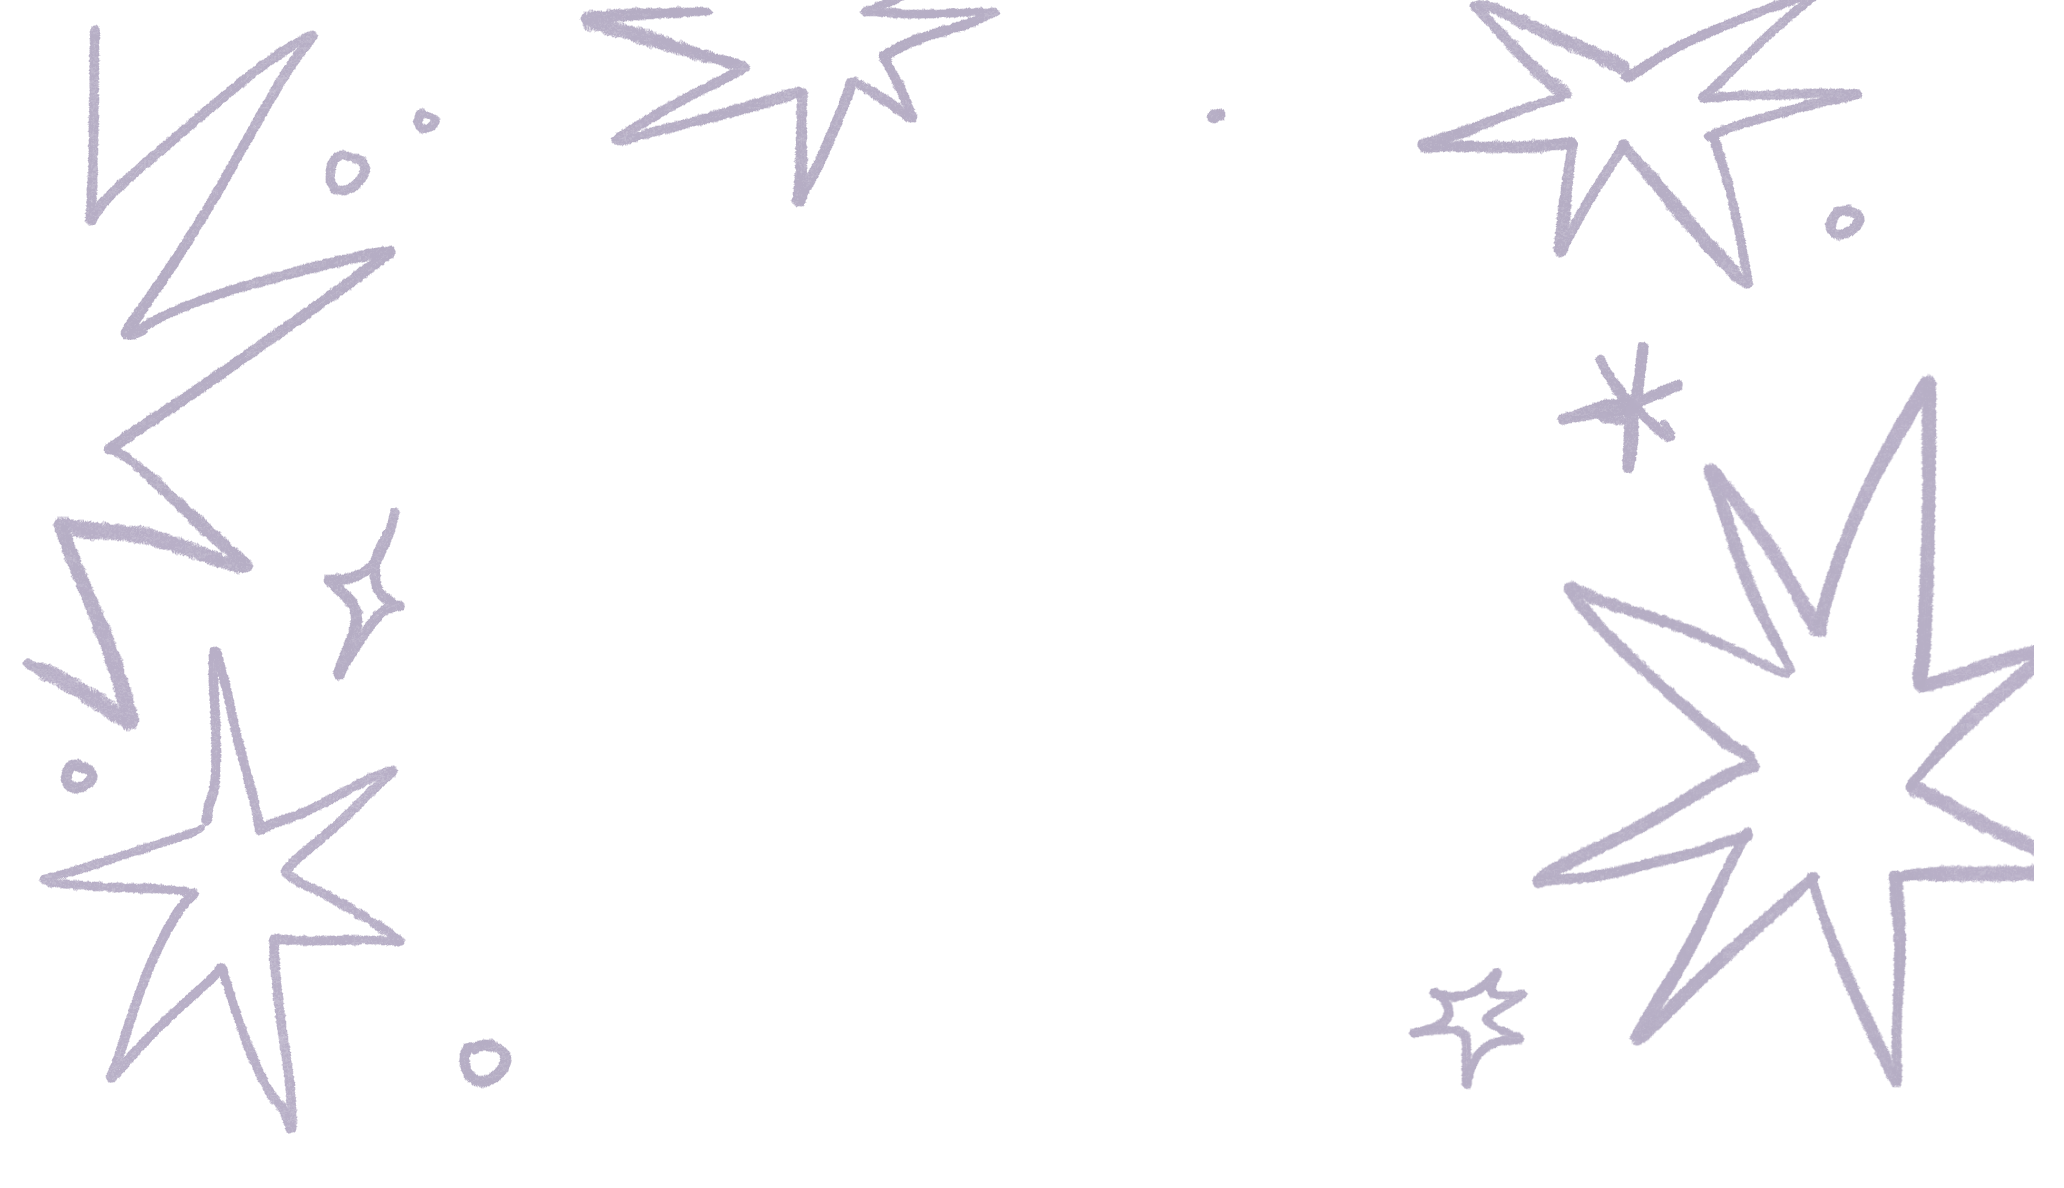
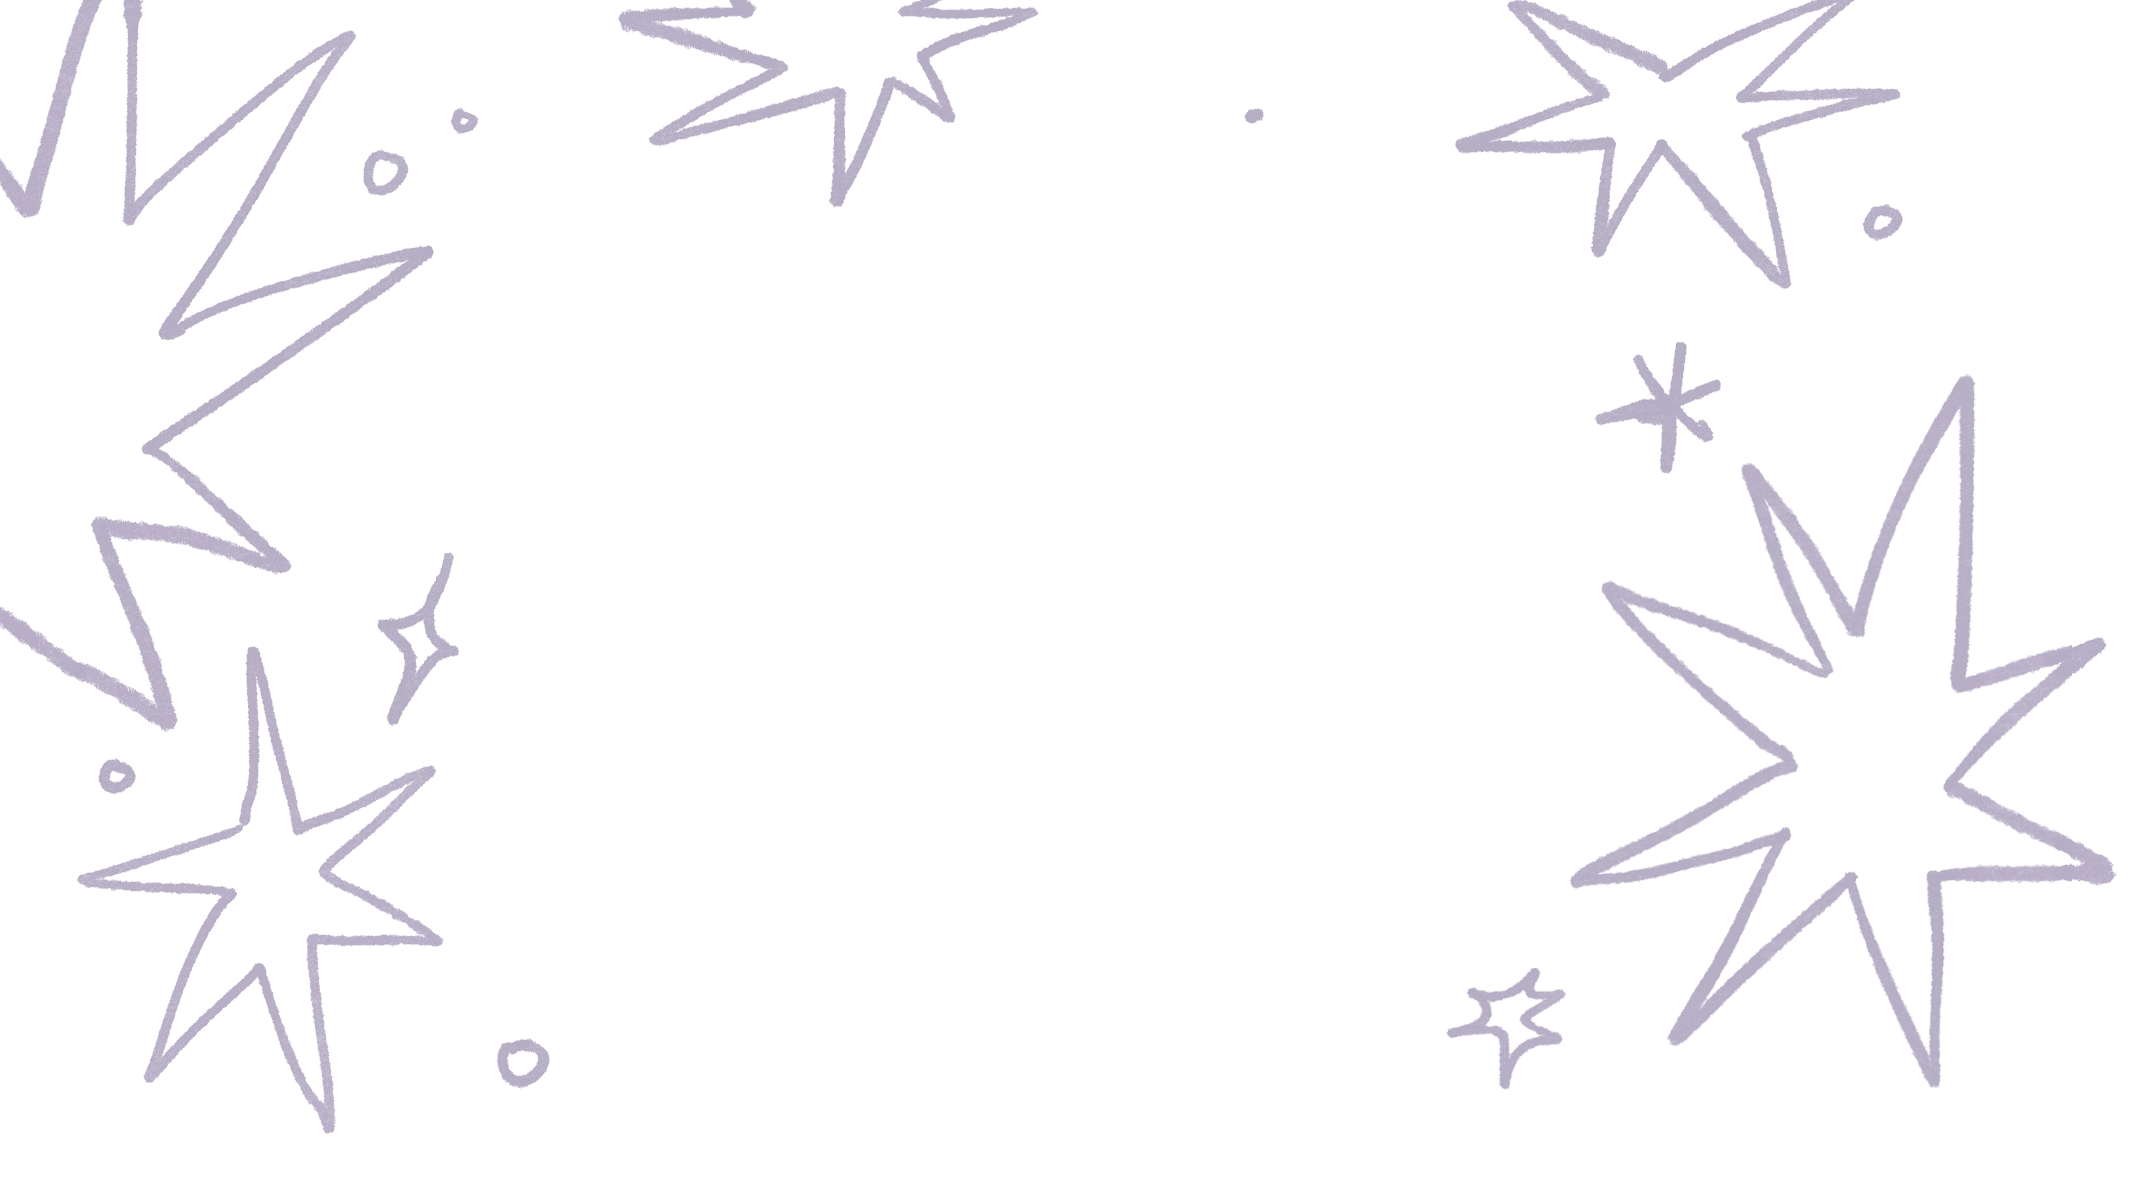
背景fix

diff --git a/src/styles/pages/home.css b/src/styles/pages/home.css
@@ -28,9 +28,7 @@ body.home-page [data-home-reveal-item] {
 
 body.home-page [data-home-hero-item] {
   translate:
-    var(--depth-x, 0px)
-    calc(var(--reveal-y) + var(--depth-y, 0px))
-    var(--depth-z, 0px);
+    var(--depth-x, 0px) calc(var(--reveal-y) + var(--depth-y, 0px)) var(--depth-z, 0px);
 }
 
 body.home-page [data-home-hero].is-depth-ready [data-home-hero-item] {
@@ -73,7 +71,7 @@ body.home-page [data-home-reveal-item] {
   display: block;
   width: 100%;
   height: 100%;
-  object-fit: cover;
+  object-fit: fill;
   user-select: none;
   pointer-events: none;
 }
@@ -190,9 +188,7 @@ body.home-page [data-home-reveal-item] {
   filter: drop-shadow(10px 13px 0 rgba(122, 89, 128, 0.24));
   transform: translateX(-50%);
   translate:
-    calc(var(--hero-pointer-x) * 9px)
-    calc(var(--hero-pointer-y) * 9px)
-    36px;
+    calc(var(--hero-pointer-x) * 9px) calc(var(--hero-pointer-y) * 9px) 36px;
   transition: translate 180ms cubic-bezier(.2, .8, .2, 1);
   pointer-events: none;
 }
@@ -681,10 +677,10 @@ body.home-page [data-home-reveal-item] {
   }
 }
 
-  @media (prefers-reduced-motion: reduce) {
-    .hero-title {
-      transition: none;
-    }
+@media (prefers-reduced-motion: reduce) {
+  .hero-title {
+    transition: none;
+  }
 
   .hero-scroll-cue {
     opacity: 1;
@@ -760,7 +756,7 @@ body.home-page [data-home-reveal-item] {
   }
 }
 
-  @media (max-width: 720px) {
+@media (max-width: 720px) {
   .home-panel {
     padding-inline: 1rem;
   }

diff --git a/UI_STYLE_GUIDE.md b/UI_STYLE_GUIDE.md
@@ -107,7 +107,7 @@ The hero is a single centered `.hero-art` coordinate system. Its centered layers
 
 Layer order:
 
-1. `.hero-stars` — full-panel transparent hand-drawn star sequence
+1. `.hero-stars` — full-panel transparent hand-drawn star sequence; preserve the complete authored composition without cropping on wider screens
 2. `.hero-person` — character
 3. `.hero-stickers` — stickers with a soft purple drop shadow
 4. `.hero-spirit` — OMO/spirit sequence
